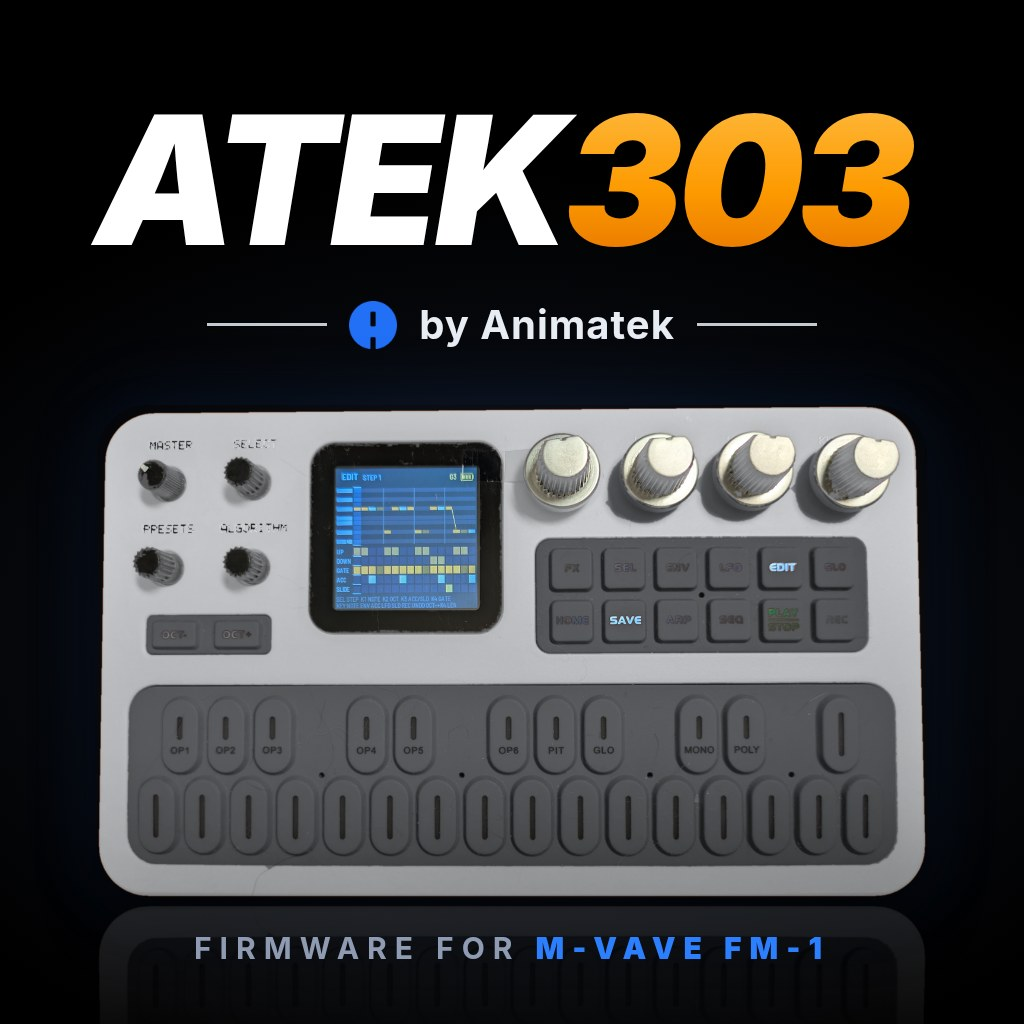
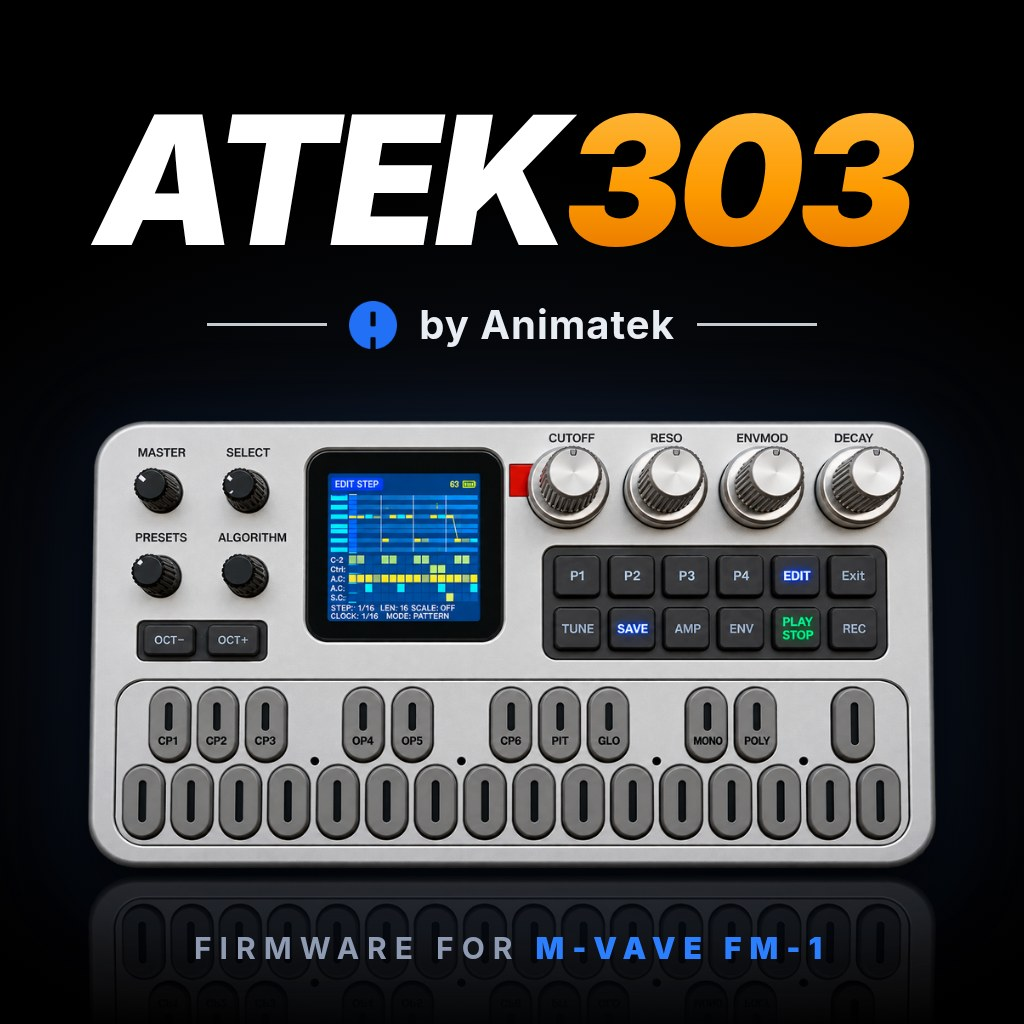
ATEK303: portada con el render metálico del FM-1 sobre transparencia
Claude-Session: https://claude.ai/code/session_013mcHSZsVKdwAswrvtLkrdR

Changed region(s): [[0.0625, 0.375, 0.9375, 0.9062]]

diff --git a/atek303/art/cover.html b/atek303/art/cover.html
@@ -7,9 +7,9 @@ h1 span{padding-right:18px;background:linear-gradient(180deg,#FFC14D 0%,#FD9A00 
 .by{position:absolute;top:300px;width:100%;display:flex;align-items:center;justify-content:center;gap:22px;color:#e8ecf3;font-size:40px;font-weight:700;letter-spacing:1px}
 .by i{display:block;width:120px;height:3px;background:#e8ecf3;opacity:.85}
 .by img{width:48px;height:48px}
-.unit{position:absolute;left:97px;top:405px;width:830px}
-.unit img{display:block;width:830px;border-radius:52px;box-shadow:0 30px 60px -10px rgba(0,0,0,.9),0 0 80px rgba(44,127,255,.12)}
-.unit img.ref{transform:scaleY(-1);margin-top:6px;opacity:.22;-webkit-mask-image:linear-gradient(to top,rgba(0,0,0,.9) 0%,transparent 35%);box-shadow:none}
+.unit{position:absolute;left:87px;top:420px;width:850px}
+.unit img{display:block;width:850px;filter:drop-shadow(0 30px 30px rgba(0,0,0,.9)) drop-shadow(0 0 40px rgba(44,127,255,.12))}
+.unit img.ref{transform:scaleY(-1);margin-top:6px;opacity:.22;-webkit-mask-image:linear-gradient(to top,rgba(0,0,0,.9) 0%,transparent 35%);filter:none}
 .sub{position:absolute;bottom:58px;width:100%;text-align:center;color:#8f9bb3;font-size:30px;font-weight:700;letter-spacing:8px}
 .sub b{color:#2C7FFF}
 </style></head><body><div class="wrap">

diff --git a/CHANGELOG.md b/CHANGELOG.md
@@ -2,6 +2,7 @@
 
 ## 2026-11-08
 
+- **ATEK303: portada con el sinte metálico** (`atek303/art/`): `fm1/unit.png` es ahora el render plateado de Javier sobre transparencia (recortado, sin las motas sueltas), con sombra `drop-shadow` en vez de la caja redondeada; `cover.jpg` y `cover-1024.jpg` regenerados desde `cover.html` con Chromium. Revisada a ojo.
 - **ATEK303 1.2 publicada**: release `atek303-v1.2` en GitHub con `atek303-1.2.fwsc` (identidad `FM-1_330010200`, sobre `2e7ef22`). Probada en el FM-1 real con `--classic`: instalada sobre la de prueba, con la copia de los presets por USB idéntica antes y después. Web (`play/`) y cheat sheet v1.2 subidas a `gh-pages`. Portada nueva: el FM-1 de Animatek con el editor en marcha, la carcasa pasada de naranja a plateado (en vez de la foto del TB-303). Falta el correo a The Firmware Hub (lo envía Javier).
 - **ATEK303: controles nuevos, como pidió Javier.** Editor: K1 semitono, K2 octava (UP/DOWN), K3 ACC/SLIDE (nada, ACC, SLIDE, los dos), K4 gate (REST, NOTE, TIE); SELECT recorre el patrón entero y la página lo sigue (K4 ya no cambia de página); OCT− + K4 sigue siendo STEPS. **ALGO** (antes sin uso) elige WAVE desde cualquier página. **EDIT** recorre lo de la secuencia: editor → página SEQ → página PATT → editor. **GLO** abre OPTIONS (OCT− + HOME sigue valiendo) y LOCK pasa a **OCT− + SEQ** (SEQ encendido con LOCK). En la lista de presets **SEL** (encendido) carga el del cursor al momento, también sonando, y las 16 teclas blancas son los presets de esa mitad (el cargado encendido, los guardados a media luz) y cargan al momento. Prueba nueva `controls.txt`; `basic`, `editor` y `steps64` al día; pasan las ocho (199 comprobaciones). Firmware en `firmwares/propios/atek303-wave.fwsc`, sin instalar; sin commit.
 - **ATEK303: WAVE es ahora una lista de osciladores** (página VOICE): SAW, SAW+SUB, FAT, DETUNE+SUB, SHINE, METAL, GROWL, BREATH, WILD, OCTAVES, OCT UP, FIFTH UP, SQR+SUB y SQUARE, una por detent. Son las recetas del ATEK303 de VCV y sus bajos al estilo del TB-3 (solo la parte de osciladores), sobre la capa extra portada a `atek_voice.c` (seno con su afinación, la otra onda con salto y desafinado, ruido, ring y cross-mod; sin libm, en una función aparte que solo corre si la entrada lleva capa). Por decisión de Javier, en vez de ocho opciones en OPTIONS: OPTIONS queda como en la 1.1. SAW y SQUARE están en los extremos (WAVE = 0 y 1), así que los presets guardados suenan igual; cambia que un CC 79 intermedio ya no mezcla las dos ondas, elige una entrada. Nombres nuevos en `words.tsv` para el lector de pantalla. Verificado en el PC: SAW y SQUARE idénticos muestra a muestra a la voz anterior (`cmp`); las 14 entradas, frente a VCV con la capa (`ref_render.cpp` con `-DATEK_LAYER` y el `src/` de UZZ-VCV-RACK), mismo nivel y espectro a 0,02–0,9 dB de media, picos ≤ 0,88. CPU en el PC frente a la voz sin capa: +3 a +7 % las entradas normales, +14 % WILD. `port_render.c` arreglado (usaba `drift_on`, que ya no existe) y con `OSC=k`. **Sin compilar el firmware ni probar en el simulador ni en el emulador** (`build.sh` lo aprueba Javier); sin commit.

diff --git a/atek303/art/CREDITS.md b/atek303/art/CREDITS.md
@@ -1,7 +1,7 @@
 # Créditos de las imágenes
 
-- `fm1/unit.png` (en la portada, `cover.jpg`): foto del FM-1 de Animatek con el ATEK303 en marcha, recortada y
-  con la carcasa naranja pasada a plateado (como la del TB-303).
+- `fm1/unit.png` (en la portada, `cover.jpg`): render del FM-1 en metal plateado con el ATEK303 en pantalla,
+  sobre fondo transparente, que hizo Animatek a partir de la foto de su FM-1. Recortado y limpio de motas.
 - M-VAVE y FM-1 son marcas de sus dueños; Roland y TB-303, de Roland Corporation. ATEK303 no tiene relación con
   Roland ni con M-VAVE.
 - El logo de Animatek y el resto, de Animatek.
